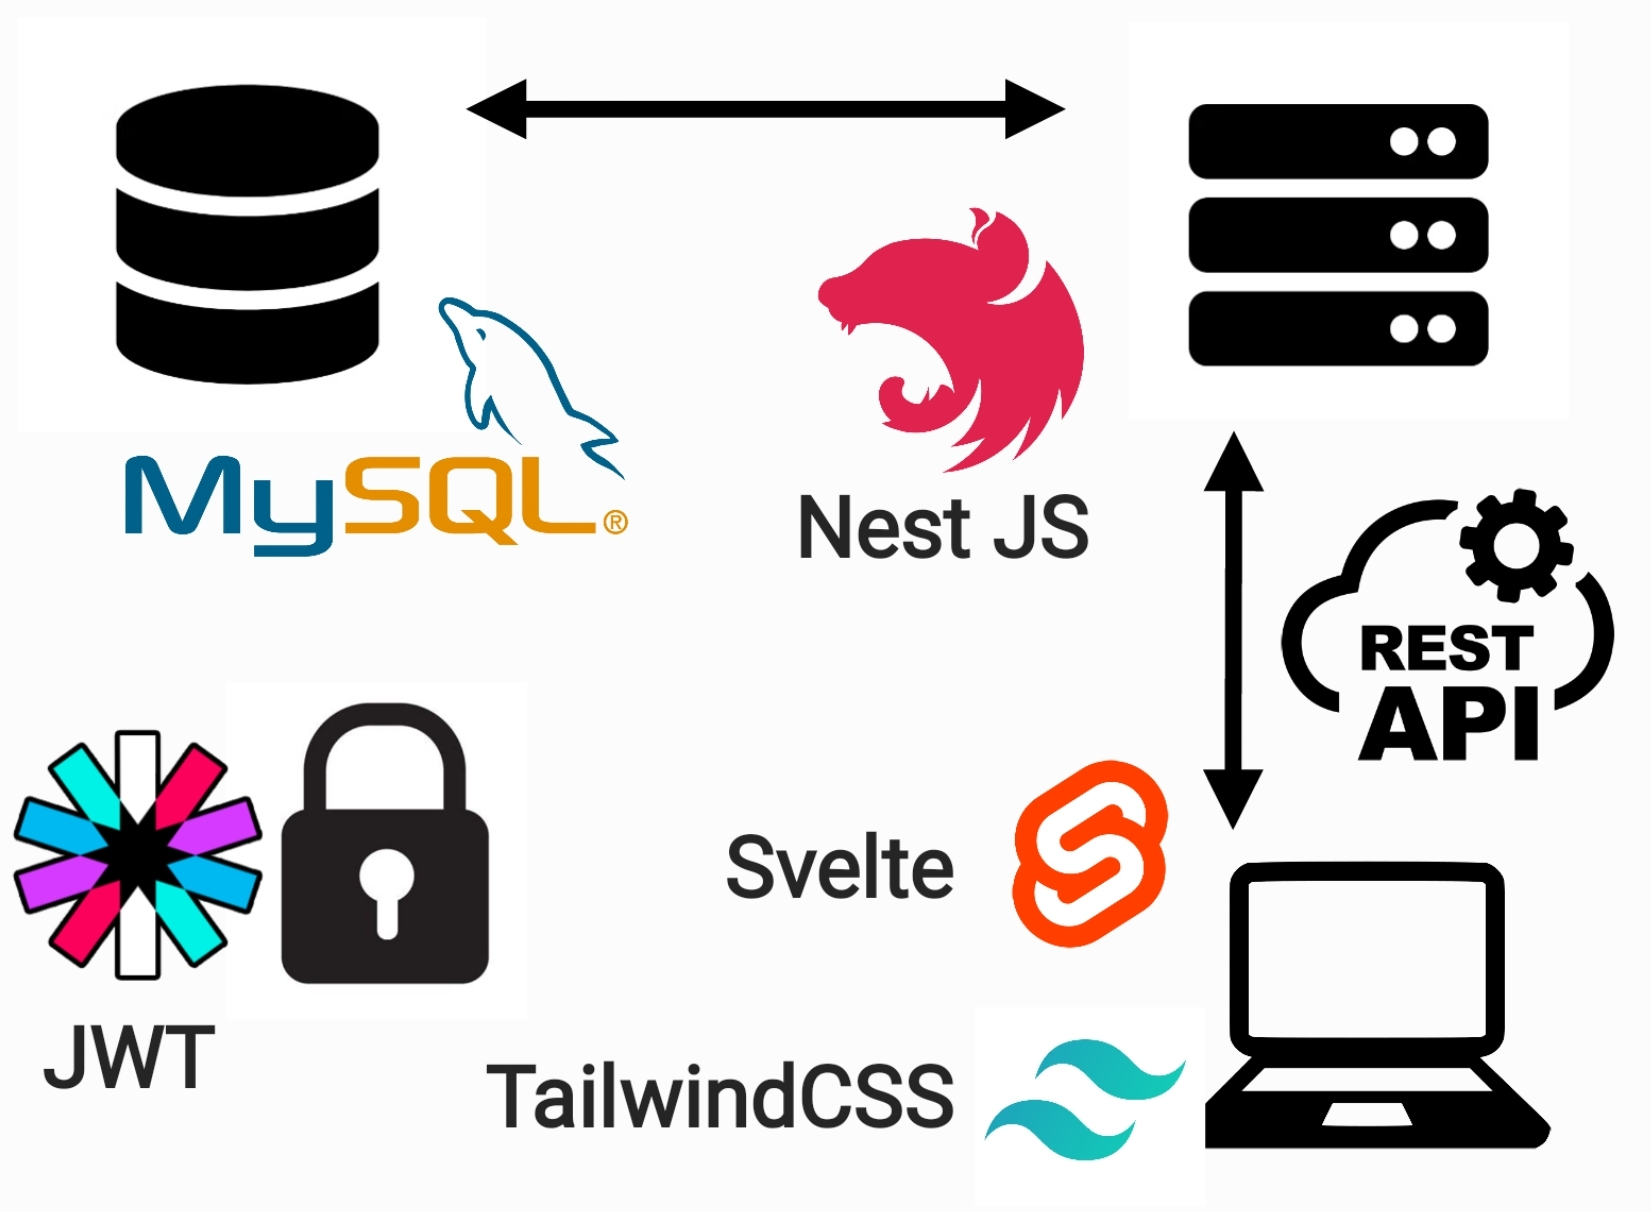
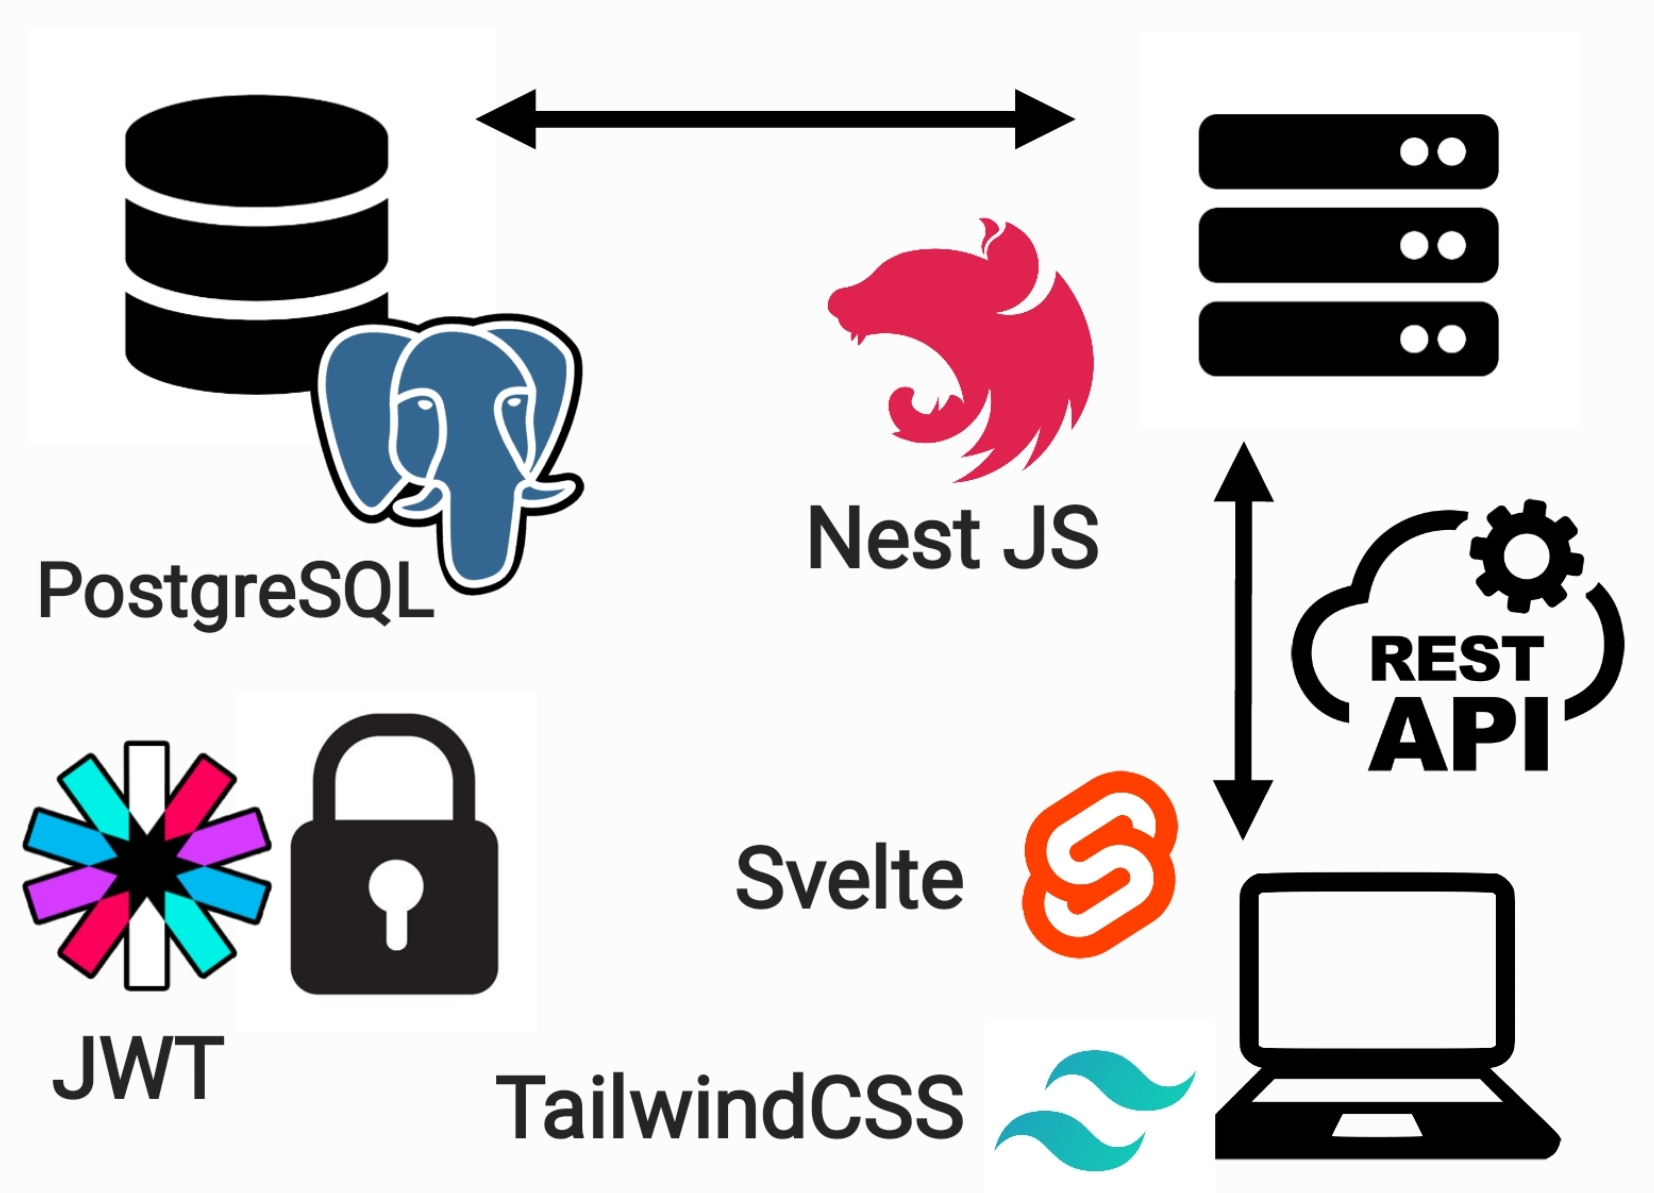
deploy: 8e370cc849172e8c8e51abf95b2ba50ba68fdfeb

diff --git a/pok/un-site-chez-moi/NB-JBD/index.html b/pok/un-site-chez-moi/NB-JBD/index.html
@@ -80,7 +80,7 @@
   
 
   <!-- début résumé -->
-<p>Jeu de mots croisés (Svelte, NestJS, MySQL)</p>
+<p>Jeu de mots croisés (Svelte, NestJS, PGSQL)</p>
 <!-- fin résumé -->
 <h3>Liens GitHub</h3>
 <ul>
@@ -91,7 +91,7 @@
 <h2>Idée de ce POK</h2>
 <p>L'idée de ce POK est de créer une site contenant une partie frontend, une partie backend qui va communiquer avec le frontend via une API. On ajoutera également une base de données afin de pouvoir stocker les informations.</p>
 <p>Dans ce POK nous allons recrée un jeu de ticket à gratter : le jeu de mots croisés. Voici une photo du ticket en question :</p>
-<img src="./images/mots-croises.jpg" alt="Image jeu de mots croisés" style="height: 500px; margin: 0 auto;" />
+<img src="./images/mots-croises.jpg" alt="Image jeu de mots croisés" style="width: 350px; margin: 0 auto;" />
 <br>
 <div class="quote relative  py-2 drop-shadow rounded rounded-tl-none rounded-bl-none border-solid border-l-8 border-cyan-500 bg-cyan-100">
 <svg class="absolute w-7 h-7 pl-1 pt-0.5 pb-0.5 text-cyan-500" xmlns="http://www.w3.org/2000/svg" fill="none" viewBox="0 0 24 24" stroke="currentColor" stroke-width="2">
@@ -102,13 +102,13 @@
 Nous disposons de 14 cases <strong>?</strong> et d’une grille de mots. Derrière chaque case se trouve une lettre qui apparaît dans la grille. A chaque lettre révélée il faut gratter les occurrences de cette lettre dans la grille. Une fois toutes les cases <strong>?</strong> grattées, on remporte de l’argent suivant le nombre de mots entièrement reconstitués.</p>
 </div></div>
 <h2>Technologies utilisées</h2>
-<img src="./images/choix_techno.jpg" alt="Technologies utilisées" style="height: 500px; margin: 0 auto; border: 0" />
+<img src="./images/choix_techno.jpg" alt="Technologies utilisées" style="width: 700px; margin: 0 auto; border: 0" />
 <ul>
 <li><strong>Front-end</strong> : Svelte + TailwindCSS</li>
 <li><strong>Back-end</strong> : NestJS</li>
 <li><strong>API</strong> : REST</li>
 <li><strong>Moyen d'authentification</strong> : JWT (<em>JSON Web Token</em>)</li>
-<li><strong>Base de données</strong> : MySQL</li>
+<li><strong>Base de données</strong> : PostgreSQL</li>
 </ul>
 <h2>Schéma d'entités</h2>
 <div style="display: grid; place-items: center;">
@@ -210,6 +210,24 @@ Nous disposons de 14 cases <strong>?</strong> et d’une grille de mots. Derriè
 </ul>
 </li>
 <li>Déployer le front, le back et la BDD.</li>
+</ul>
+<h2>Ce qui a été fait au 1er sprint</h2>
+<ul>
+<li>Correction du login et register</li>
+<li>Protection des routes</li>
+<li>Lister les parties</li>
+<li>Passage à PostgreSQL</li>
+<li>Mise en production du projet dans l'état actuel sur le serveur OVH : (front dans <code>/www/</code>, back dans <code>/node/</code>) et connexion avec la base de données en PGSQL disponibles sur le serveur OVH. L'application est disponible sur <a href="http://melisse.ovh1.ec-m.fr">http://melisse.ovh1.ec-m.fr</a></li>
+<li>Fix de bugs</li>
+</ul>
+<h2>2e sprint</h2>
+<ul>
+<li>Connexion de la partie entre le front et le back</li>
+<li>Améliorer le style et la responsivité</li>
+<li>Algorithme de génération de grilles</li>
+<li>Solde dans la navbar</li>
+<li>Autres améliorations</li>
+<li>Redéployer l'ensemble du projet avec les modifications effectuées</li>
 </ul>
 
 

diff --git a/pok/index.html b/pok/index.html
@@ -454,7 +454,7 @@ Timothé : Réalisation d'une roulette permettant de faire des choix au hasard.
         <div class="flex-none">Résumé : </div>
         <div class="pl-2 m-0 grow quote">
 
-          <p>Jeu de mots croisés (Svelte, NestJS, MySQL)</p>
+          <p>Jeu de mots croisés (Svelte, NestJS, PGSQL)</p>
 
         </div>
       </div>
